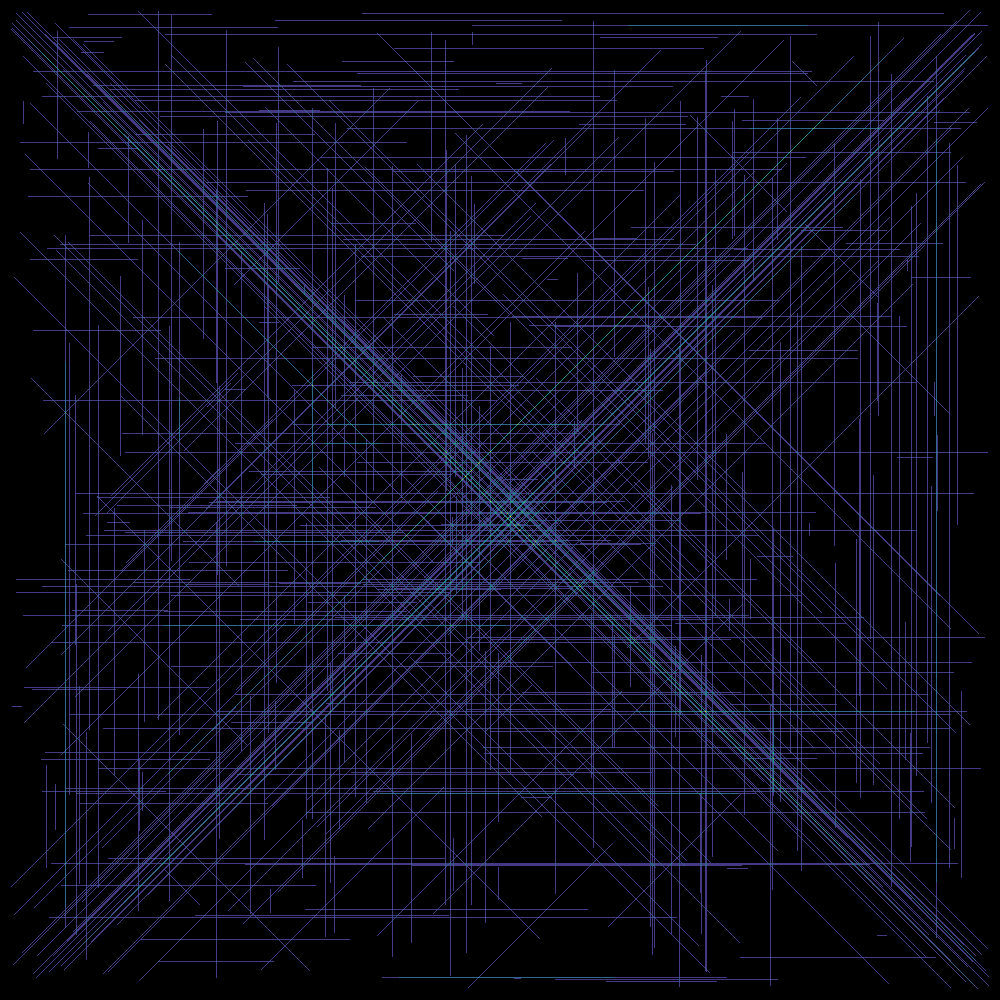
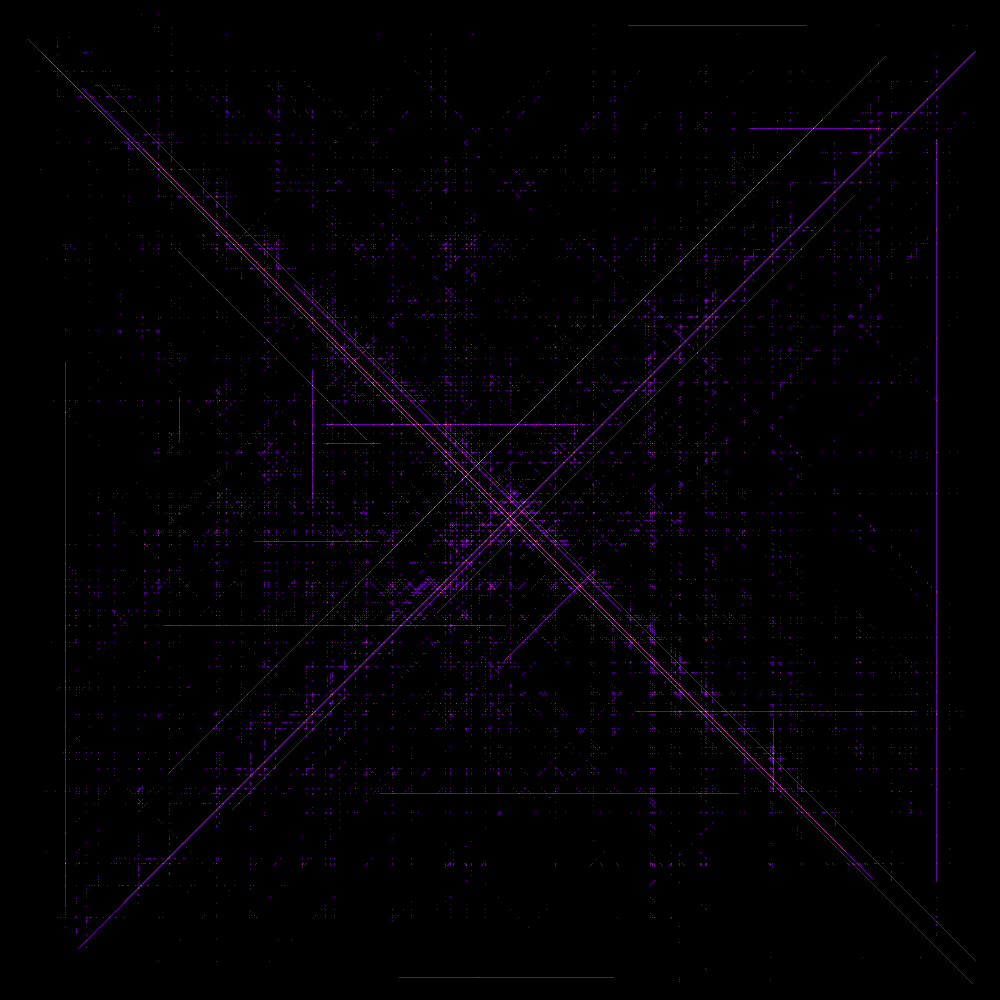
day05: improved visualisation

diff --git a/day05/day05.py b/day05/day05.py
@@ -9,12 +9,15 @@ with open("day05/input.txt", "r", encoding="utf-8") as f:
 
 def visualize(point_dict: dict) -> Image:
     max_overlap = max(point_dict.values())
-    colormap = cm.get_cmap("viridis", max_overlap + 1)
+    colormap = cm.get_cmap("plasma", max_overlap)
     img = Image.new("RGB", (1000, 1000), (0, 0, 0))
     pixels = img.load()
     for point, overlaps in point_dict.items():
         x, y = point
-        r, g, b = (int(colormap(overlaps)[i] * 255) for i in range(3))
+        # Points without overlaps should not be visualized.
+        if overlaps <= 1:
+            continue
+        r, g, b = (int(colormap(overlaps - 1)[i] * 255) for i in range(3))
         pixels[x, y] = (r, g, b)
     return img
 

diff --git a/README.md b/README.md
@@ -1,5 +1,5 @@
 # advent-of-code-2021
 
-*day05 (detail, [full image](day05/vis.png))*
+*day05*
 
-![day05 visualisation (section)](day05/vis_section.png)
+![day05 visualisation](day05/vis.png)
